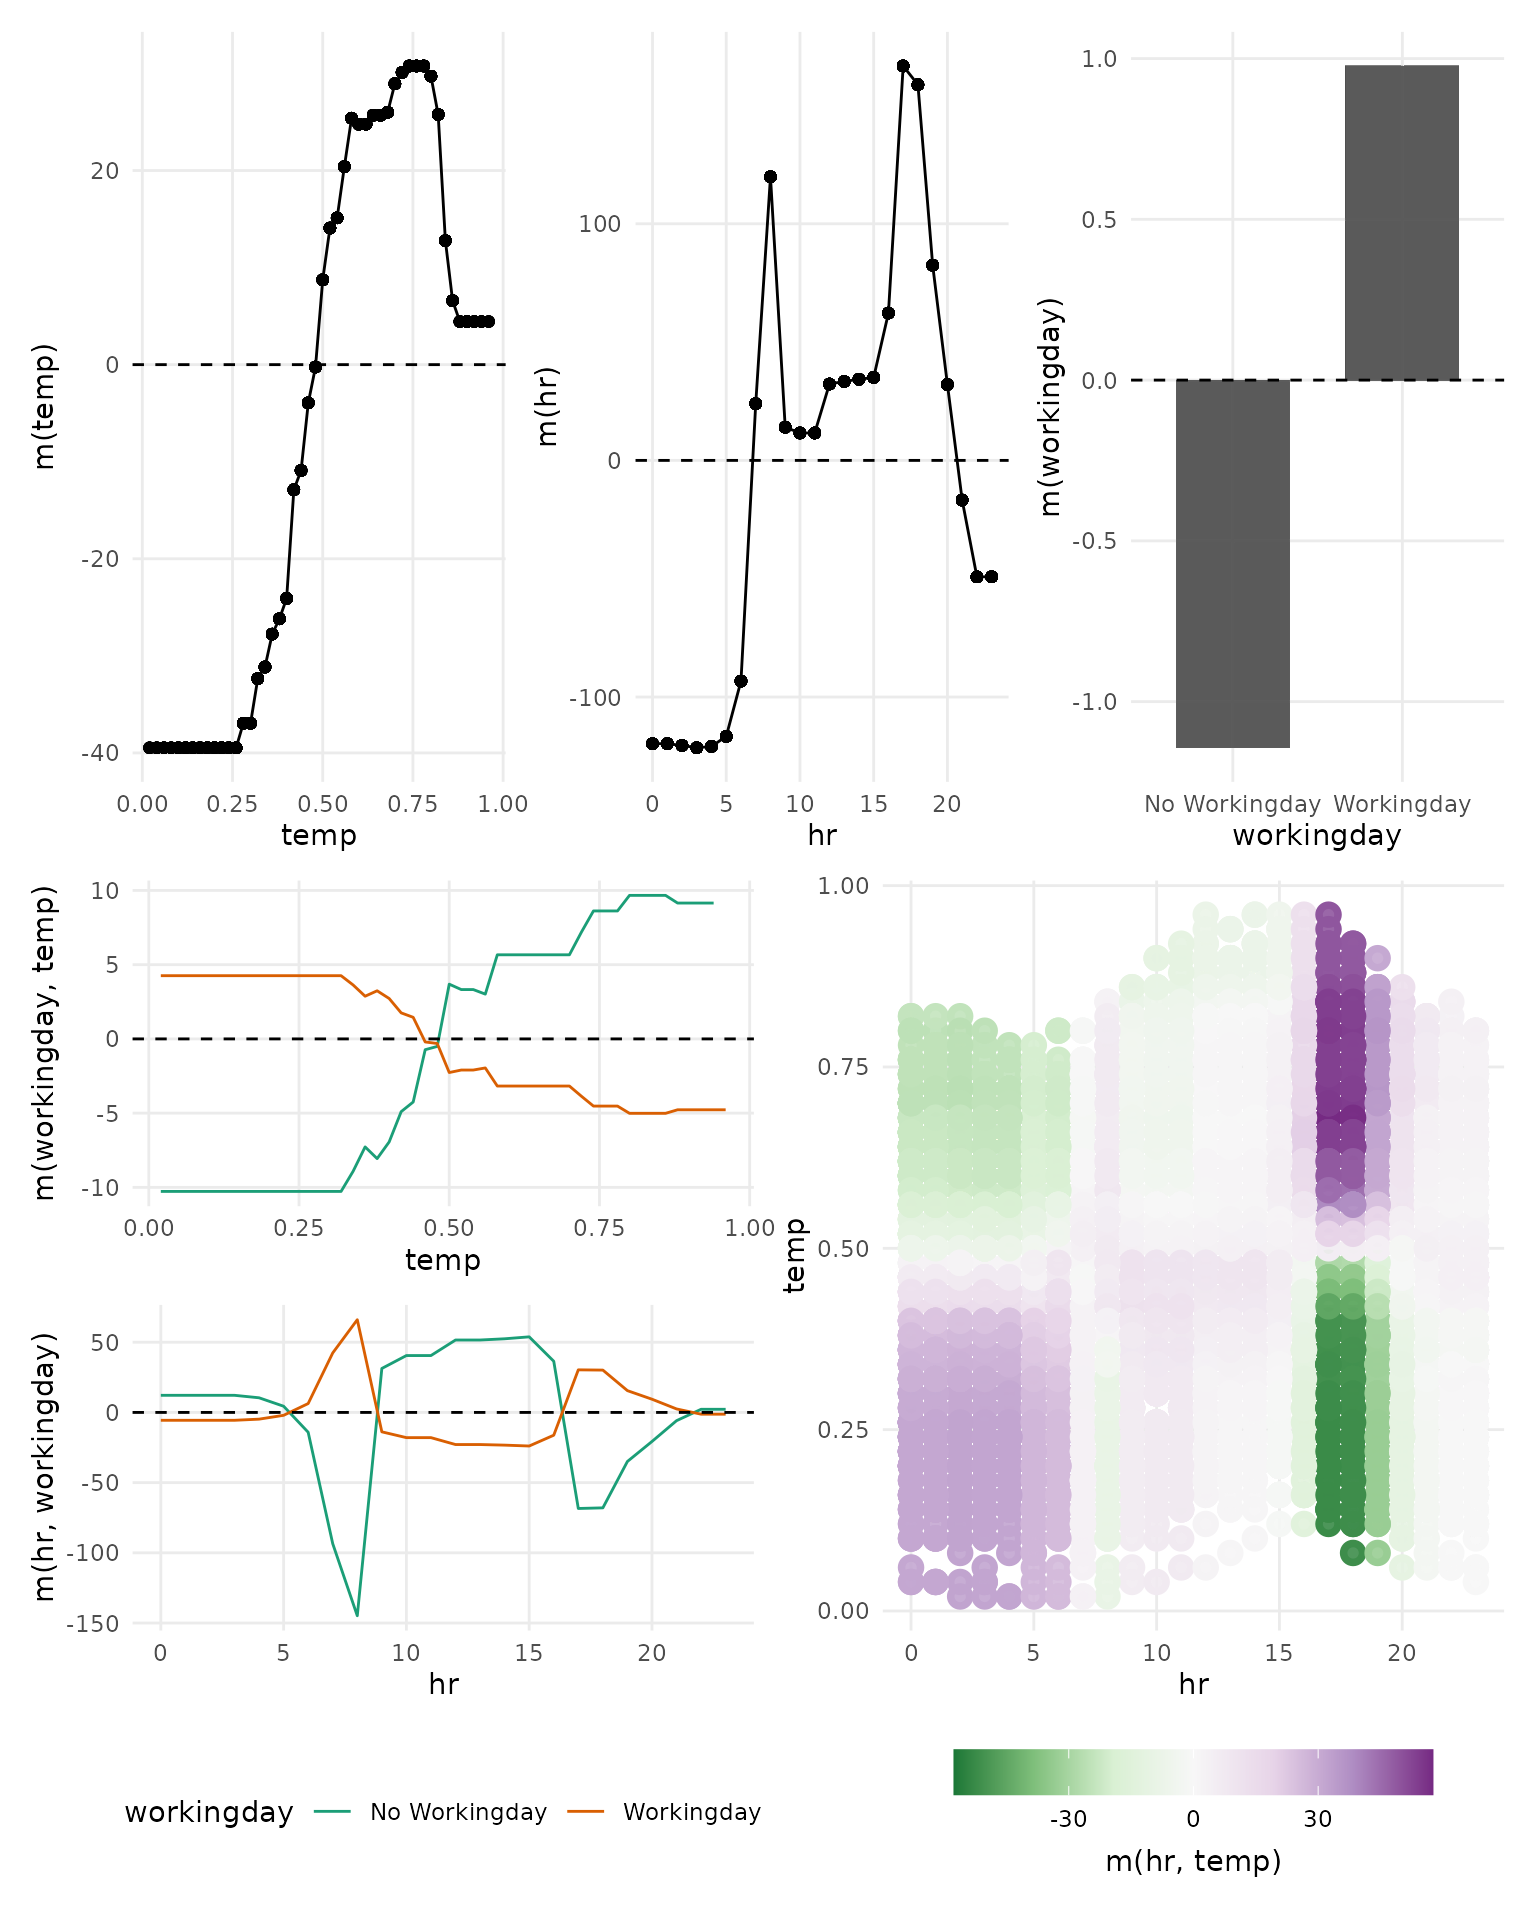
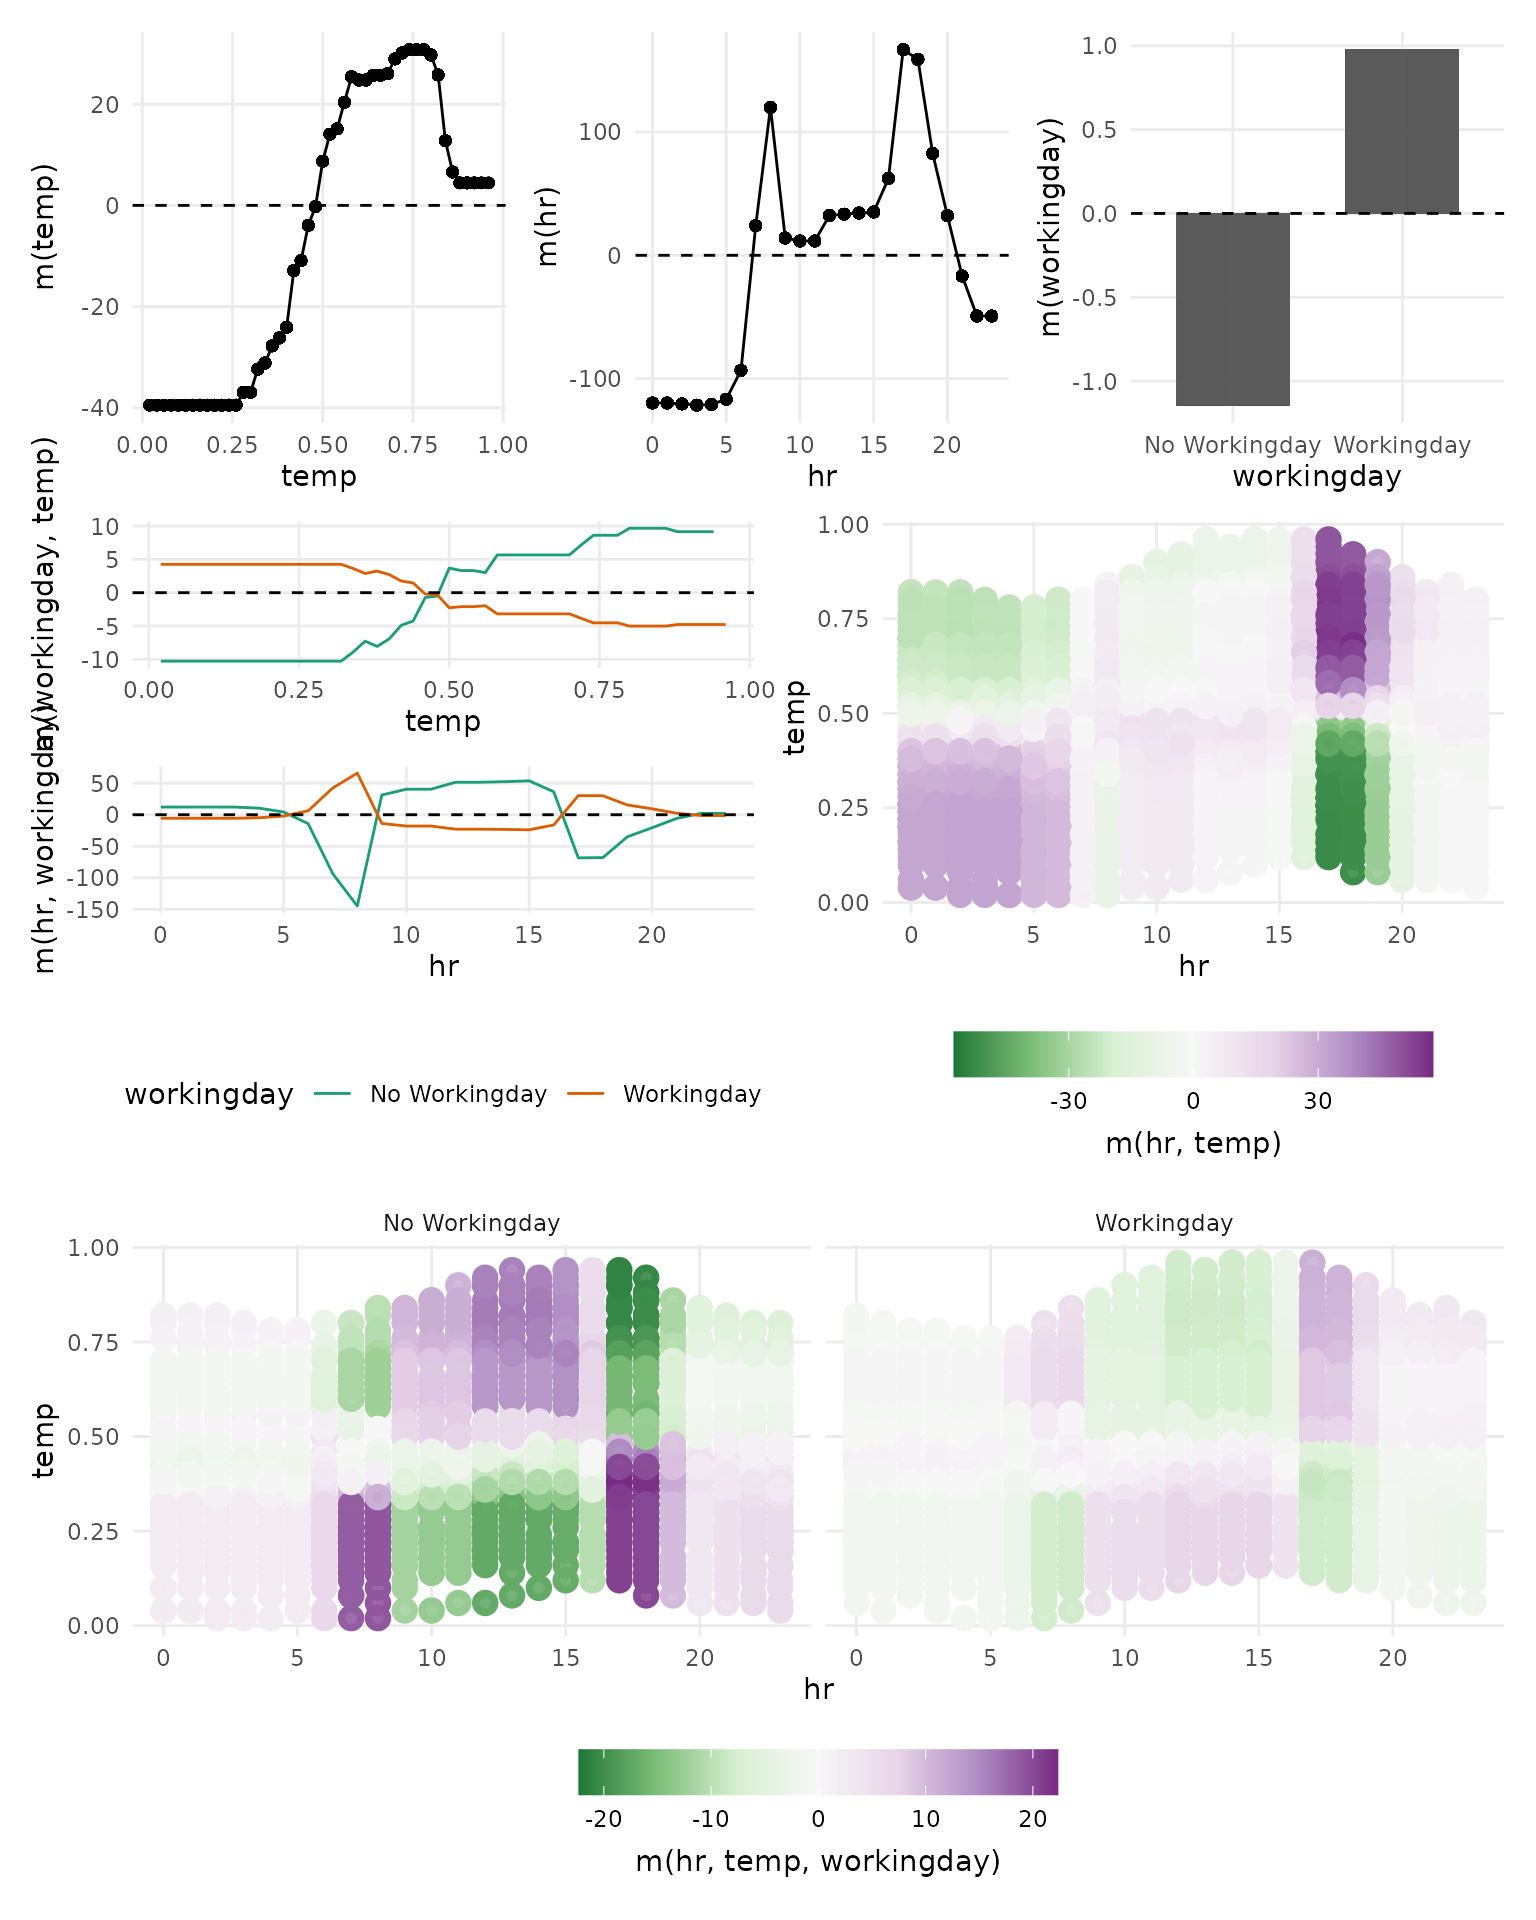
Deploying to gh-pages from @ PlantedML/randomPlantedForest@58689df619211b56c8cae952fa6f8ff93a754daf 🚀

diff --git a/articles/test/Regression-Test-oldrpf.html b/articles/test/Regression-Test-oldrpf.html
@@ -71,7 +71,7 @@
   <main id="main" class="col-md-9"><div class="page-header">
       <img src="" class="logo" alt=""><h1>Regression Test: oldrpf</h1>
             
-            <h4 data-toc-skip class="date">2023-02-21 15:40:26 UTC</h4>
+            <h4 data-toc-skip class="date">2023-02-21 15:45:49 UTC</h4>
       
       <small class="dont-index">Source: <a href="https://github.com/PlantedML/randomPlantedForest/blob/HEAD/vignettes/test/Regression-Test-oldrpf.Rmd" class="external-link"><code>vignettes/test/Regression-Test-oldrpf.Rmd</code></a></small>
       <div class="d-none name"><code>Regression-Test-oldrpf.Rmd</code></div>
@@ -99,9 +99,9 @@ referred to as <code>oldrpf</code>.</p>
 <tbody><tr class="odd">
 <td align="left">regr</td>
 <td align="left">L2</td>
-<td align="right">0.18409</td>
-<td align="right">0.15069</td>
-<td align="right">0.05951</td>
+<td align="right">0.1788</td>
+<td align="right">0.17783</td>
+<td align="right">0.08779</td>
 </tr></tbody>
 </table>
 </div>
@@ -123,9 +123,9 @@ referred to as <code>oldrpf</code>.</p>
 <tbody><tr class="odd">
 <td align="left">classif</td>
 <td align="left">L1</td>
-<td align="right">0.08822</td>
-<td align="right">0.09188</td>
-<td align="right">0.00363</td>
+<td align="right">0.09162</td>
+<td align="right">0.08605</td>
+<td align="right">0.00442</td>
 </tr></tbody>
 </table>
 </div>
@@ -144,9 +144,9 @@ referred to as <code>oldrpf</code>.</p>
 <tbody><tr class="odd">
 <td align="left">classif</td>
 <td align="left">L2</td>
-<td align="right">0.09602</td>
-<td align="right">0.09512</td>
-<td align="right">0.00227</td>
+<td align="right">0.09208</td>
+<td align="right">0.09557</td>
+<td align="right">0.00336</td>
 </tr></tbody>
 </table>
 </div>
@@ -165,9 +165,9 @@ referred to as <code>oldrpf</code>.</p>
 <tbody><tr class="odd">
 <td align="left">classif</td>
 <td align="left">logit</td>
-<td align="right">0.09816</td>
-<td align="right">0.09635</td>
-<td align="right">0.00237</td>
+<td align="right">0.09212</td>
+<td align="right">0.09329</td>
+<td align="right">0.00253</td>
 </tr></tbody>
 </table>
 </div>
@@ -186,9 +186,9 @@ referred to as <code>oldrpf</code>.</p>
 <tbody><tr class="odd">
 <td align="left">classif</td>
 <td align="left">exponential</td>
-<td align="right">0.08543</td>
-<td align="right">0.08554</td>
-<td align="right">0.00416</td>
+<td align="right">0.08672</td>
+<td align="right">0.08716</td>
+<td align="right">0.00364</td>
 </tr></tbody>
 </table>
 </div>
@@ -208,37 +208,37 @@ referred to as <code>oldrpf</code>.</p>
 <tr class="odd">
 <td align="left">regr</td>
 <td align="left">L2</td>
-<td align="right">0.18409</td>
-<td align="right">0.15069</td>
-<td align="right">0.05951</td>
+<td align="right">0.17880</td>
+<td align="right">0.17783</td>
+<td align="right">0.08779</td>
 </tr>
 <tr class="even">
 <td align="left">classif</td>
 <td align="left">L1</td>
-<td align="right">0.08822</td>
-<td align="right">0.09188</td>
-<td align="right">0.00363</td>
+<td align="right">0.09162</td>
+<td align="right">0.08605</td>
+<td align="right">0.00442</td>
 </tr>
 <tr class="odd">
 <td align="left">classif</td>
 <td align="left">L2</td>
-<td align="right">0.09602</td>
-<td align="right">0.09512</td>
-<td align="right">0.00227</td>
+<td align="right">0.09208</td>
+<td align="right">0.09557</td>
+<td align="right">0.00336</td>
 </tr>
 <tr class="even">
 <td align="left">classif</td>
 <td align="left">logit</td>
-<td align="right">0.09816</td>
-<td align="right">0.09635</td>
-<td align="right">0.00237</td>
+<td align="right">0.09212</td>
+<td align="right">0.09329</td>
+<td align="right">0.00253</td>
 </tr>
 <tr class="odd">
 <td align="left">classif</td>
 <td align="left">exponential</td>
-<td align="right">0.08543</td>
-<td align="right">0.08554</td>
-<td align="right">0.00416</td>
+<td align="right">0.08672</td>
+<td align="right">0.08716</td>
+<td align="right">0.00364</td>
 </tr>
 </tbody>
 </table>

diff --git a/articles/Bikesharing-Decomposition-Example.html b/articles/Bikesharing-Decomposition-Example.html
@@ -274,12 +274,13 @@ predictor values, which we use for the plot of the main effects.</p>
 <code class="sourceCode R"><span><span class="va">p_3way</span> <span class="op">&lt;-</span> <span class="fu"><a href="../reference/plot_components.html">plot_threeway_effects</a></span><span class="op">(</span><span class="va">components</span>, <span class="fu"><a href="https://rdrr.io/r/base/c.html" class="external-link">c</a></span><span class="op">(</span><span class="st">"hr"</span>, <span class="st">"temp"</span>, <span class="st">"workingday"</span><span class="op">)</span><span class="op">)</span></span>
 <span></span>
 <span><span class="va">p_3way</span></span></code></pre></div>
+<p><img src="Bikesharing-Decomposition-Example_files/figure-html/threeway-effects-1.png" width="864" style="display: block; margin: auto;"></p>
 </div>
 <div class="section level2">
 <h2 id="everything-together">Everything Together<a class="anchor" aria-label="anchor" href="#everything-together"></a>
 </h2>
 <div class="sourceCode" id="cb8"><pre class="downlit sourceCode r">
-<code class="sourceCode R"><span><span class="va">p_main</span> <span class="op">/</span> <span class="va">p_2way</span> <span class="op">&amp;</span> <span class="fu"><a href="https://ggplot2.tidyverse.org/reference/theme.html" class="external-link">theme</a></span><span class="op">(</span></span>
+<code class="sourceCode R"><span><span class="va">p_main</span> <span class="op">/</span> <span class="va">p_2way</span> <span class="op">/</span> <span class="va">p_3way</span> <span class="op">&amp;</span> <span class="fu"><a href="https://ggplot2.tidyverse.org/reference/theme.html" class="external-link">theme</a></span><span class="op">(</span></span>
 <span>  panel.grid.minor.x <span class="op">=</span> <span class="fu"><a href="https://ggplot2.tidyverse.org/reference/element.html" class="external-link">element_blank</a></span><span class="op">(</span><span class="op">)</span>,</span>
 <span>  panel.grid.minor.y <span class="op">=</span> <span class="fu"><a href="https://ggplot2.tidyverse.org/reference/element.html" class="external-link">element_blank</a></span><span class="op">(</span><span class="op">)</span></span>
 <span><span class="op">)</span></span></code></pre></div>
